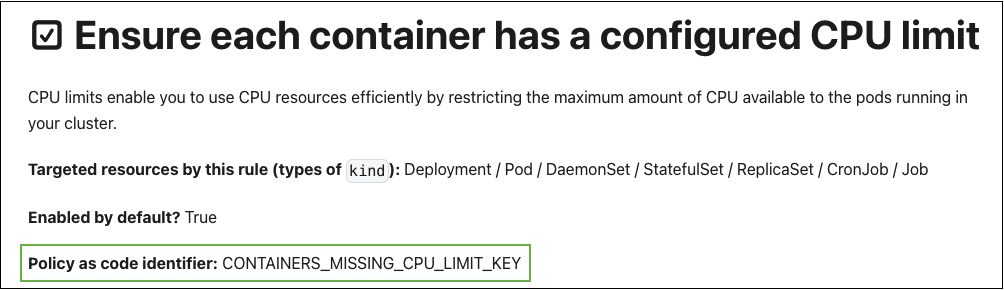
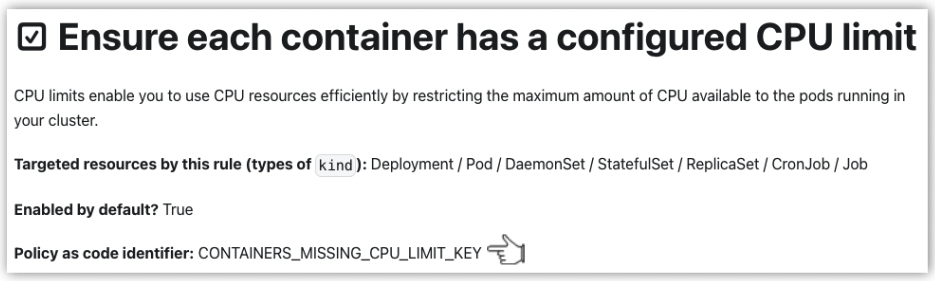
add rule skipping page, update images

Changed region(s): [[0.0, 0.0, 1.0, 0.9964]]

diff --git a/sidebars.js b/sidebars.js
@@ -39,7 +39,7 @@ const sidebars = {
         "setup/cli-arguments/index",
         "setup/history/index",
         "setup/account-token/index",
-        //"setup/policy-customization/index",
+        "setup/policy-customization/index",
       ],
     },
     {
